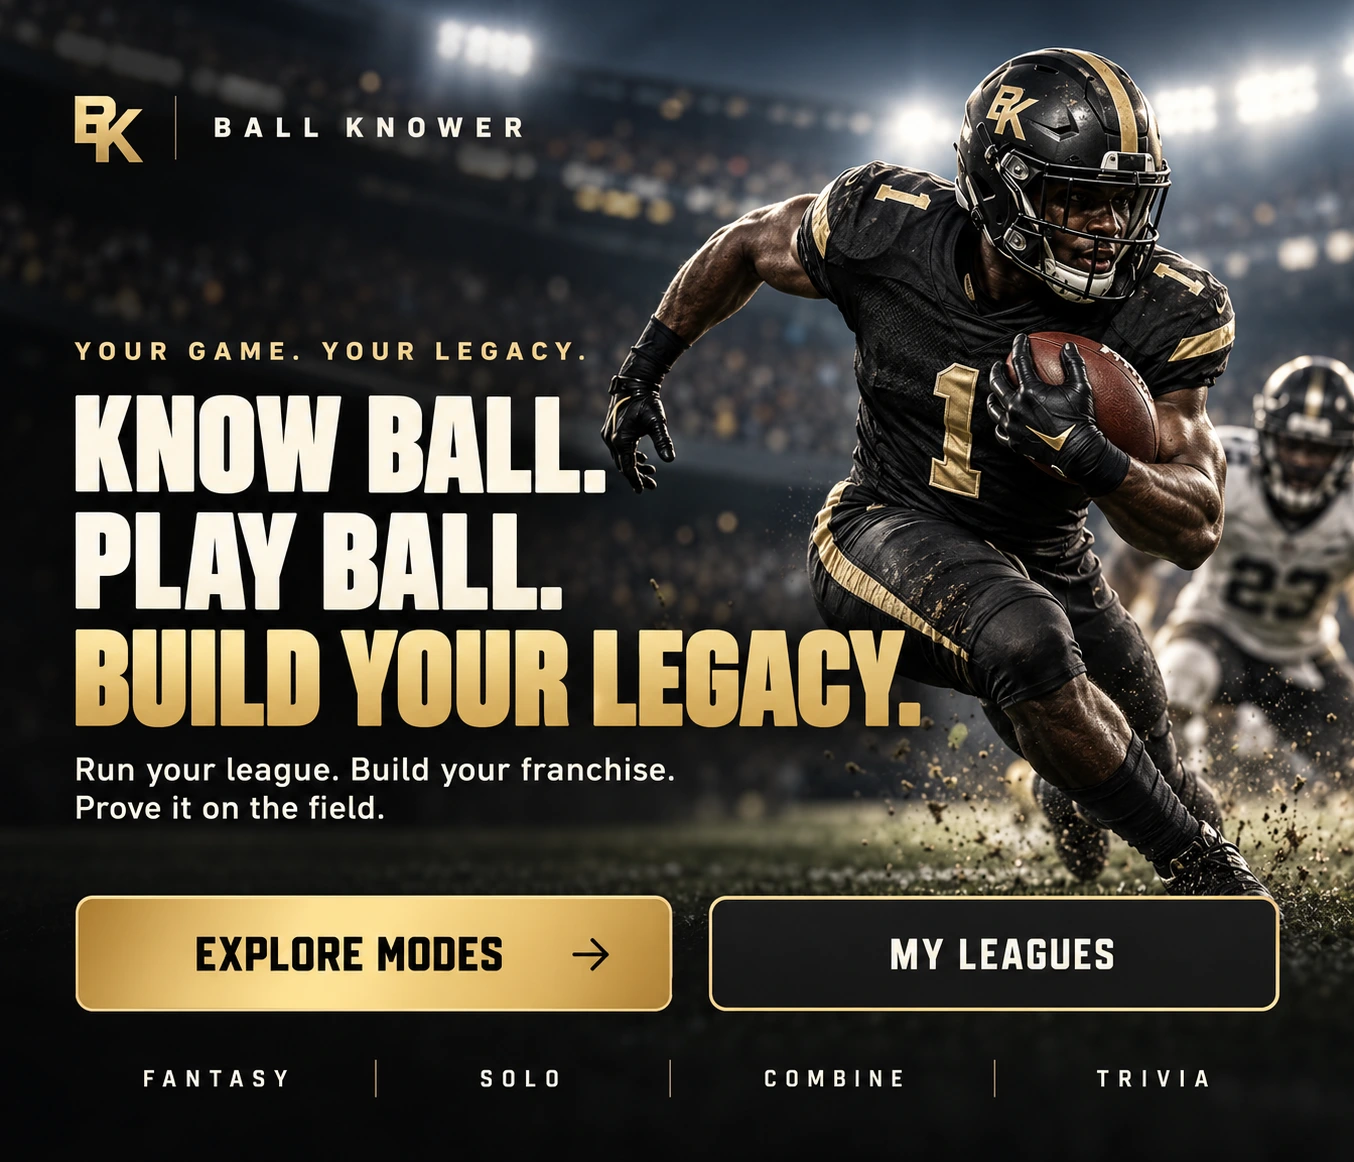
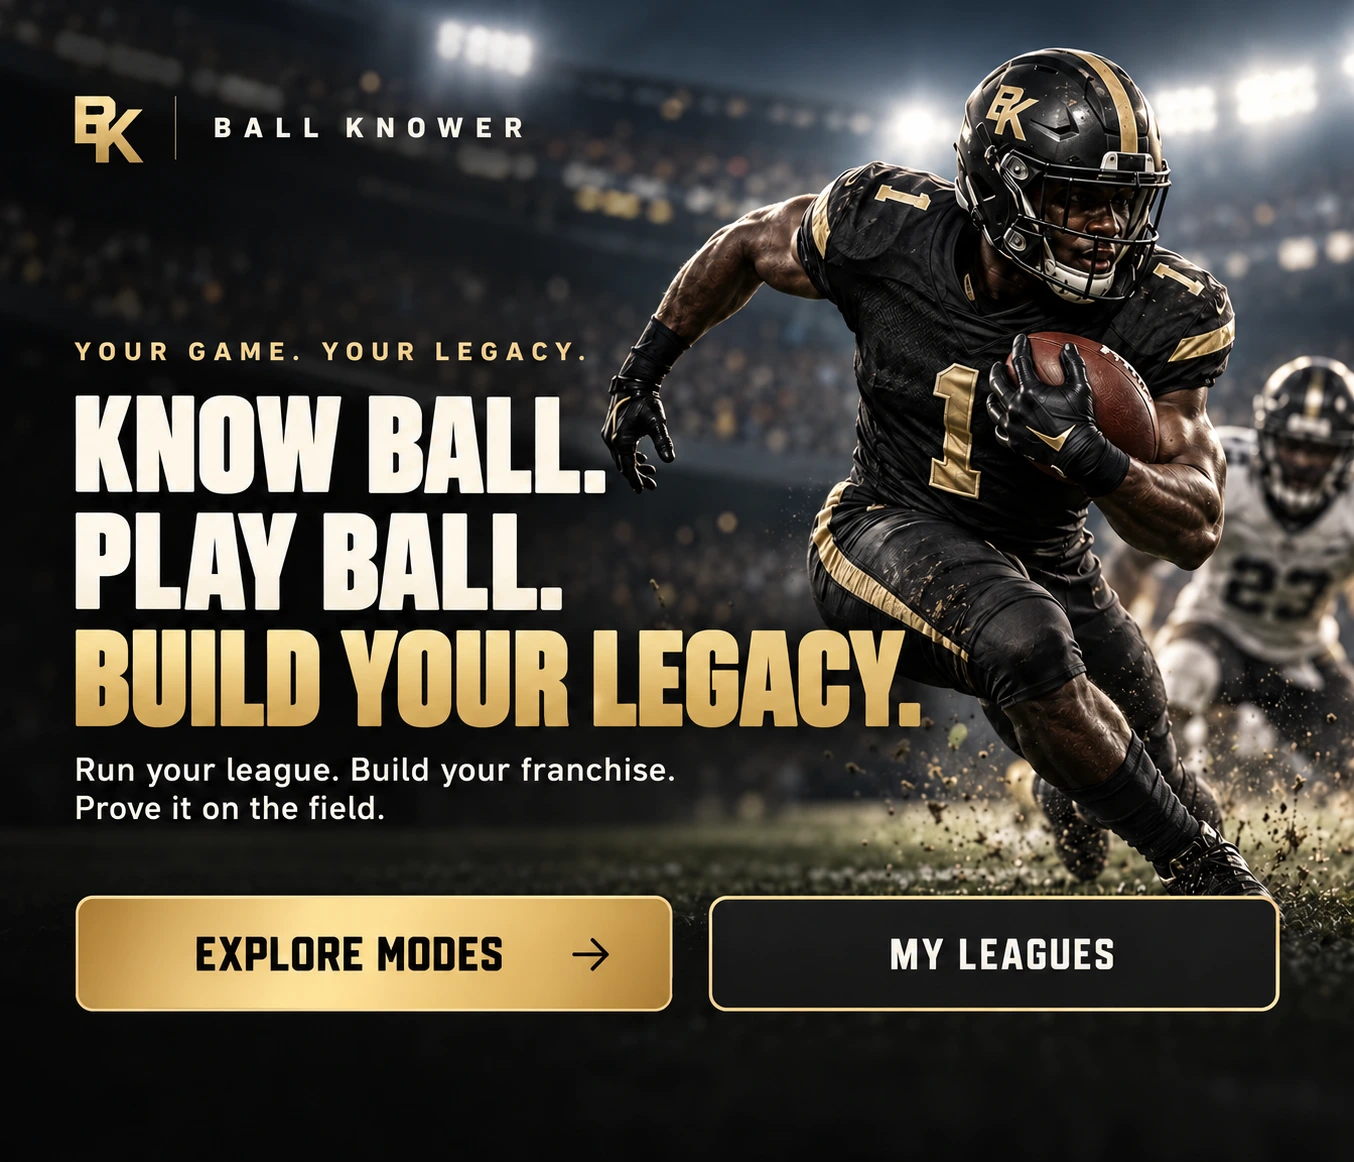
Restore original hero size and remove artwork footer options (#477)

diff --git a/HomeStadiumHero.tsx b/HomeStadiumHero.tsx
@@ -1,15 +1,14 @@
 import React, {useState} from 'react';
 
-type HeroDestination = 'fantasy' | 'solo' | 'challenges';
 
 /** The approved artwork stays intact; real controls sit over its printed buttons. */
-export function HomeStadiumHero({onMyLeagues,onExploreModes,onNavigate}:{
+export function HomeStadiumHero({onMyLeagues,onExploreModes}:{
   onMyLeagues:()=>void;
   onExploreModes:()=>void;
-  onNavigate:(destination:HeroDestination)=>void;
 }) {
   const [failed,setFailed]=useState(false);
   return <section className={`bk-home-stadium bk-home-legacy-hero${failed?' bk-home-legacy-fallback':''}`} aria-labelledby="home-stadium-title" data-motion="off">
+    <div className="bk-home-legacy-frame">
     {!failed&&<img className="bk-home-legacy-art" src="/atmosphere/ball-knower-legacy-hero.webp" alt="" width="1354" height="1162" fetchPriority="high" decoding="async" draggable={false} onError={()=>setFailed(true)}/>}
     <div className={failed?'bk-home-legacy-fallback-copy':'sr-only'}>
       <p>Ball Knower. Your game. Your legacy.</p>
@@ -18,11 +17,6 @@ export function HomeStadiumHero({onMyLeagues,onExploreModes,onNavigate}:{
     </div>
     <button type="button" className="bk-home-hero-hit bk-home-explore-hit" onClick={onExploreModes}><span className={failed?'':'sr-only'}>Explore Modes</span></button>
     <button type="button" className="bk-home-hero-hit bk-home-leagues-hit" onClick={onMyLeagues}><span className={failed?'':'sr-only'}>My Leagues</span></button>
-    <nav className="bk-home-hero-mode-links" aria-label="Featured game modes">
-      <button type="button" onClick={()=>onNavigate('fantasy')}><span className={failed?'':'sr-only'}>Fantasy</span></button>
-      <button type="button" onClick={()=>onNavigate('solo')}><span className={failed?'':'sr-only'}>Solo</span></button>
-      <a href="/?miniGames=1&combine=1"><span className={failed?'':'sr-only'}>Combine</span></a>
-      <button type="button" onClick={()=>onNavigate('challenges')}><span className={failed?'':'sr-only'}>Trivia</span></button>
-    </nav>
+    </div>
   </section>;
 }

diff --git a/homeBroadcast.css b/homeBroadcast.css
@@ -114,3 +114,16 @@ nav[data-home-broadcast="true"] button svg { width: 21px; height: 21px; }
   .bk-home-hero-mode-links { top: 96.5%; }
   .bk-home-hero-mode-links :is(button,a) { min-height: 32px; }
 }
+
+/* Restore the original hero footprint without cropping the approved artwork. */
+.bk-home-stadium.bk-home-legacy-hero { height: 378px; aspect-ratio: auto; margin-inline: -16px; margin-bottom: 0; display: flex; align-items: center; justify-content: center; background: #060707; }
+.bk-home-legacy-frame { position: relative; width: min(100%, calc(378px * 1354 / 1162)); aspect-ratio: 1354 / 1162; }
+.bk-home-legacy-fallback .bk-home-legacy-frame { aspect-ratio: auto; display: flex; flex-wrap: wrap; gap: 12px; }
+@media (min-width: 640px) {
+ .bk-home-stadium.bk-home-legacy-hero { height: 440px; margin-inline: -24px; }
+ .bk-home-legacy-frame { width: min(100%, calc(440px * 1354 / 1162)); }
+}
+@media (max-width: 359px) {
+ .bk-home-stadium.bk-home-legacy-hero { height: 350px; }
+ .bk-home-legacy-frame { width: min(100%, calc(350px * 1354 / 1162)); }
+}

diff --git a/HomeDashboard.tsx b/HomeDashboard.tsx
@@ -110,7 +110,7 @@ function HomeSession({ onOpenCreateLeague, onOpenJoinLeague, onSelectLeague, onN
   }, [leagueMenuOpen]);
 
   return <div className="bk-home-dashboard bk-home-broadcast bk-home-clean mx-auto max-w-5xl pb-5 pl-[max(1rem,env(safe-area-inset-left))] pr-[max(1rem,env(safe-area-inset-right))] sm:pb-8 sm:pl-[max(1.5rem,env(safe-area-inset-left))] sm:pr-[max(1.5rem,env(safe-area-inset-right))]">
-    <HomeStadiumHero onMyLeagues={() => onNavigate('fantasy')} onNavigate={onNavigate} onExploreModes={() => {
+    <HomeStadiumHero onMyLeagues={() => onNavigate('fantasy')} onExploreModes={() => {
       const destinations=document.getElementById('home-primary-destinations');
       destinations?.scrollIntoView({block:'start',behavior:'auto'});
       destinations?.querySelector<HTMLButtonElement>('button')?.focus({preventScroll:true});

diff --git a/docs/home-hero-size-followup.md b/docs/home-hero-size-followup.md
@@ -1,0 +1,9 @@
+# Homepage hero size follow-up
+
+User requested the previous hero size and removal of the four footer options.
+
+Restored the pre-artwork hero footprint: full content width with prior outer margins; 350px below 360px, 378px on phones, 440px from 640px. The artwork scales proportionally inside that area with no cover crop. Its two main buttons remain aligned to the artwork. Removed the four inline footer actions; existing app destinations remain available elsewhere.
+
+Asset: public/atmosphere/ball-knower-legacy-hero.webp. Built-in imagegen edited the previous artwork, then Sharp encoded WebP. Prompt: remove only FANTASY, SOLO, COMBINE, TRIVIA and their gold dividers, fill with the existing dark background, preserve all other artwork, copy and the two primary buttons, do not crop or zoom.
+
+Validation: production build, TypeScript, home contracts and responsive browser verification at 320/390/430/1280px. Browser verification covers original hero heights, aspect ratio, two aligned button targets, navigation and image fallback. No physical-device testing claimed.
